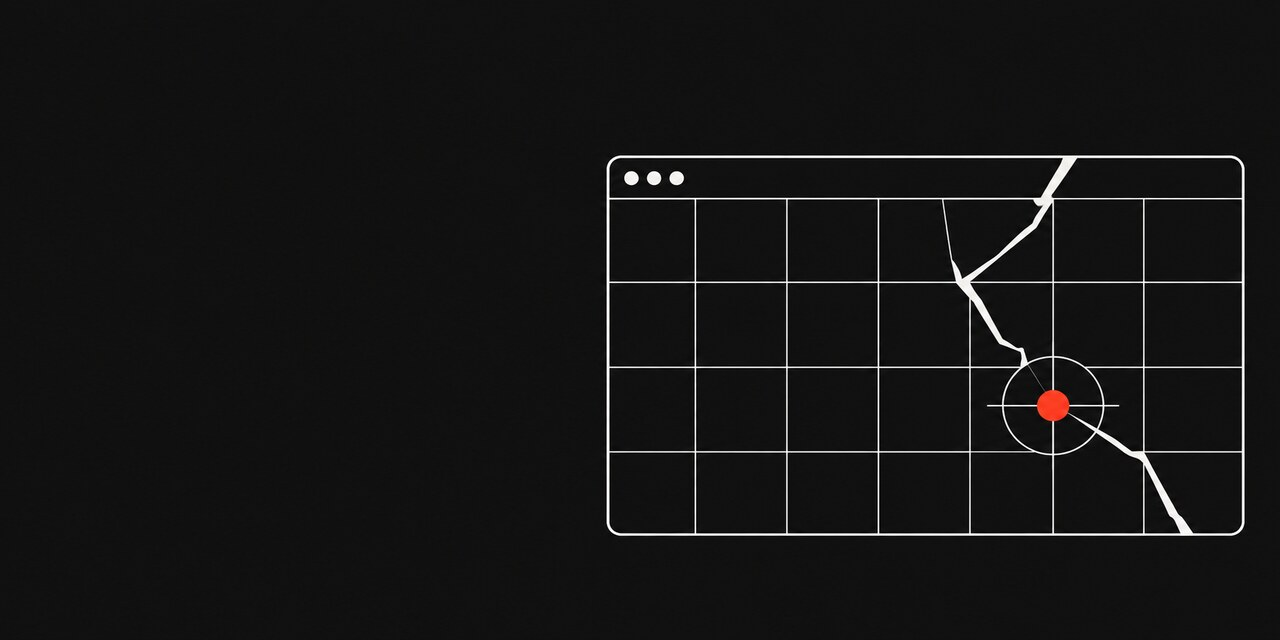
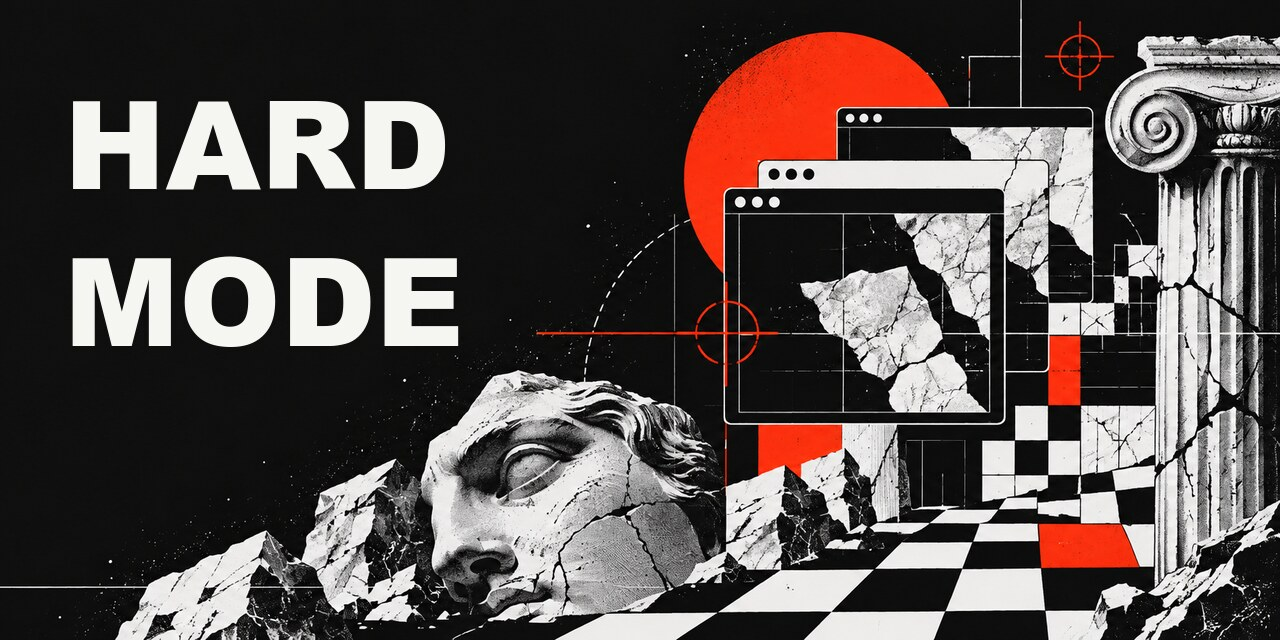
docs: add visual skill walkthroughs

diff --git a/README.md b/README.md
@@ -12,6 +12,25 @@ hard-mode is a local testing tool for web apps. A Playwright runner drives your 
 
 Everything runs on your machine. The runner never edits your app's code and sends nothing anywhere.
 
+## One configuration, two states
+
+```mermaid
+flowchart LR
+    A["your local app"] --> B["one journey + one scenario"]
+    B --> C["run before the fix"]
+    C --> D["screenshots · geometry · focus trace"]
+    D --> E["fix the app"]
+    E --> F["rerun the identical configuration"]
+    F --> G["evidence-backed comparison"]
+```
+
+### Before → after
+
+| Before using Hard Mode | After the same scenario is rerun |
+| --- | --- |
+| “The page looks fine on my screen.” | A report records that the long title clipped, where it clipped, and the screenshot that proves it. |
+| A `div` styled like an Export button looks clickable. | The keyboard trace shows the control is unreachable; after the fix the same trace resolves the finding. |
+
 ![Report gallery: two confirmed findings on the synthetic demo app, each with what was expected, what was observed, and how it was measured](assets/report-gallery.png)
 
 That is a real report from `npm run demo`: a synthetic app whose header clips long titles and whose "Export" control is a `div`, so keyboard users can never reach it. The report says what was measured, not what to feel about it. Fix the app, rerun the identical config, and the comparison tells you what changed:
